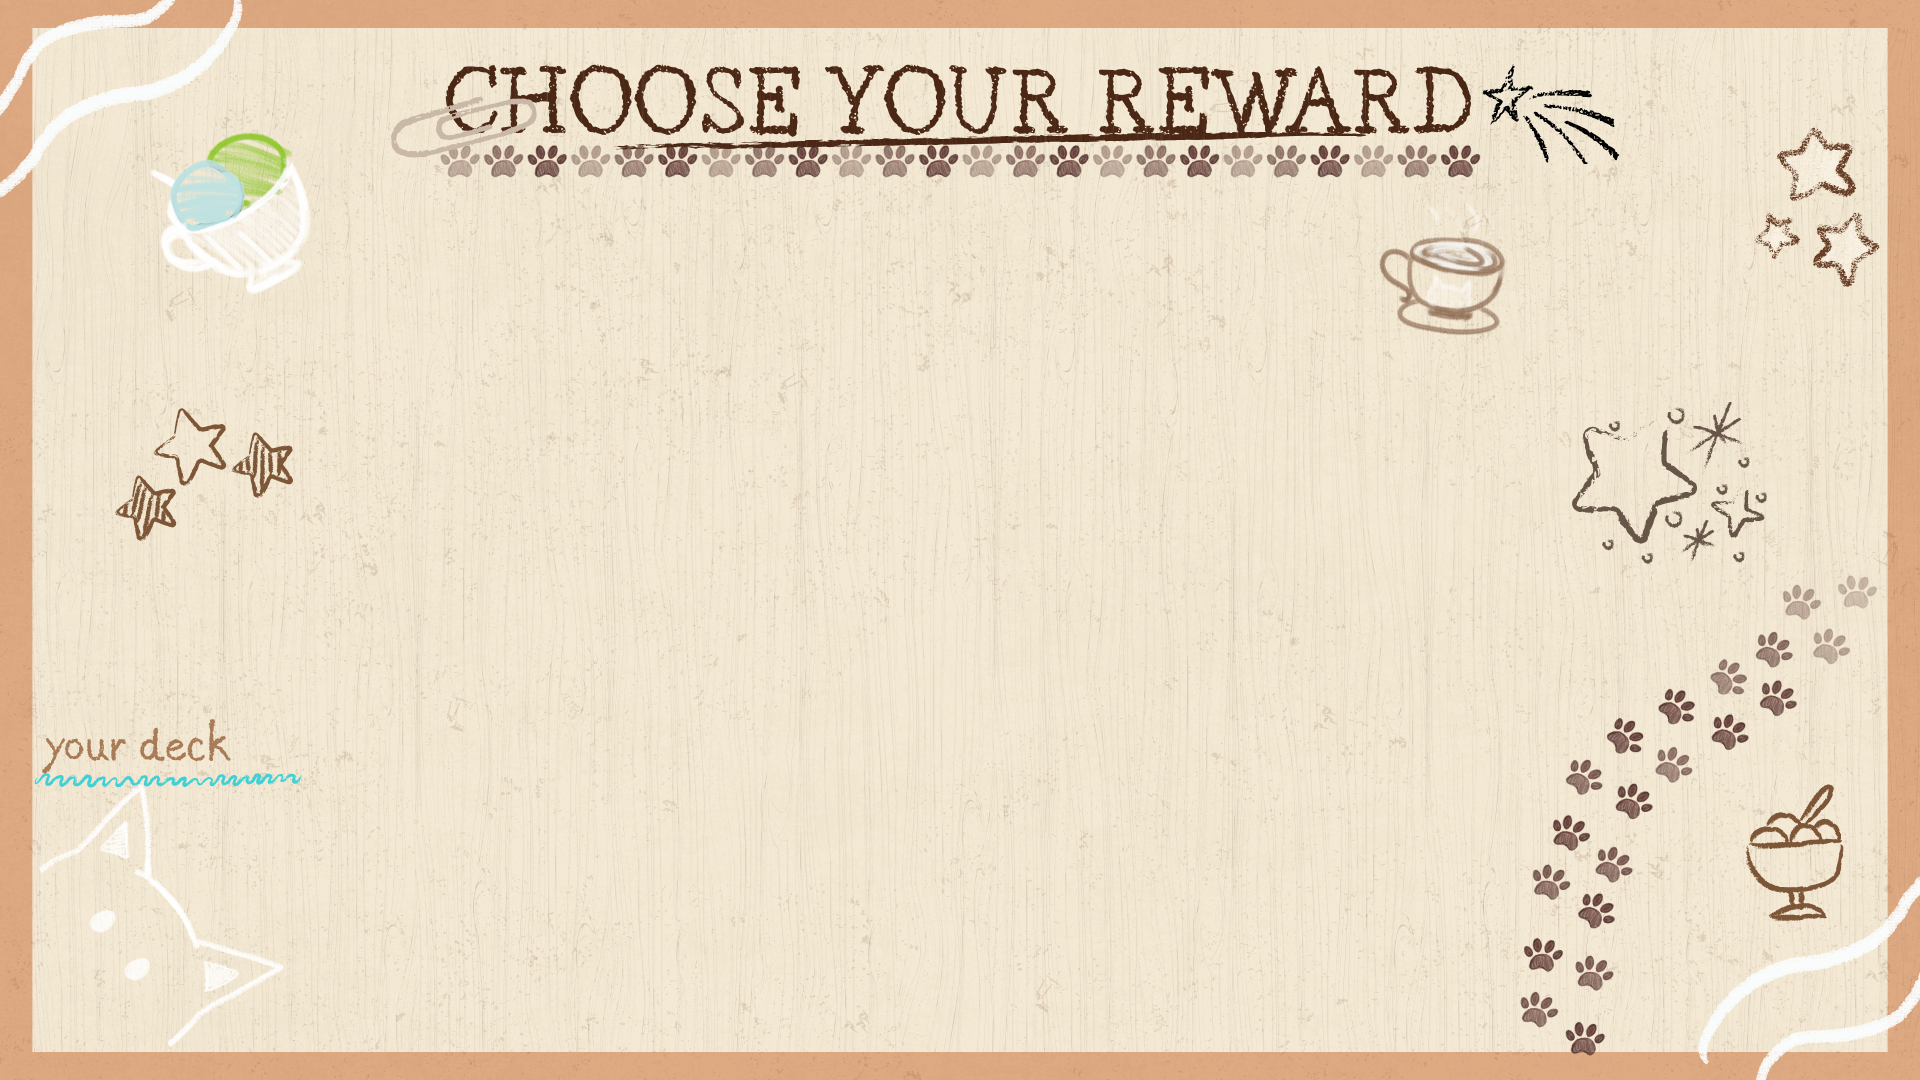
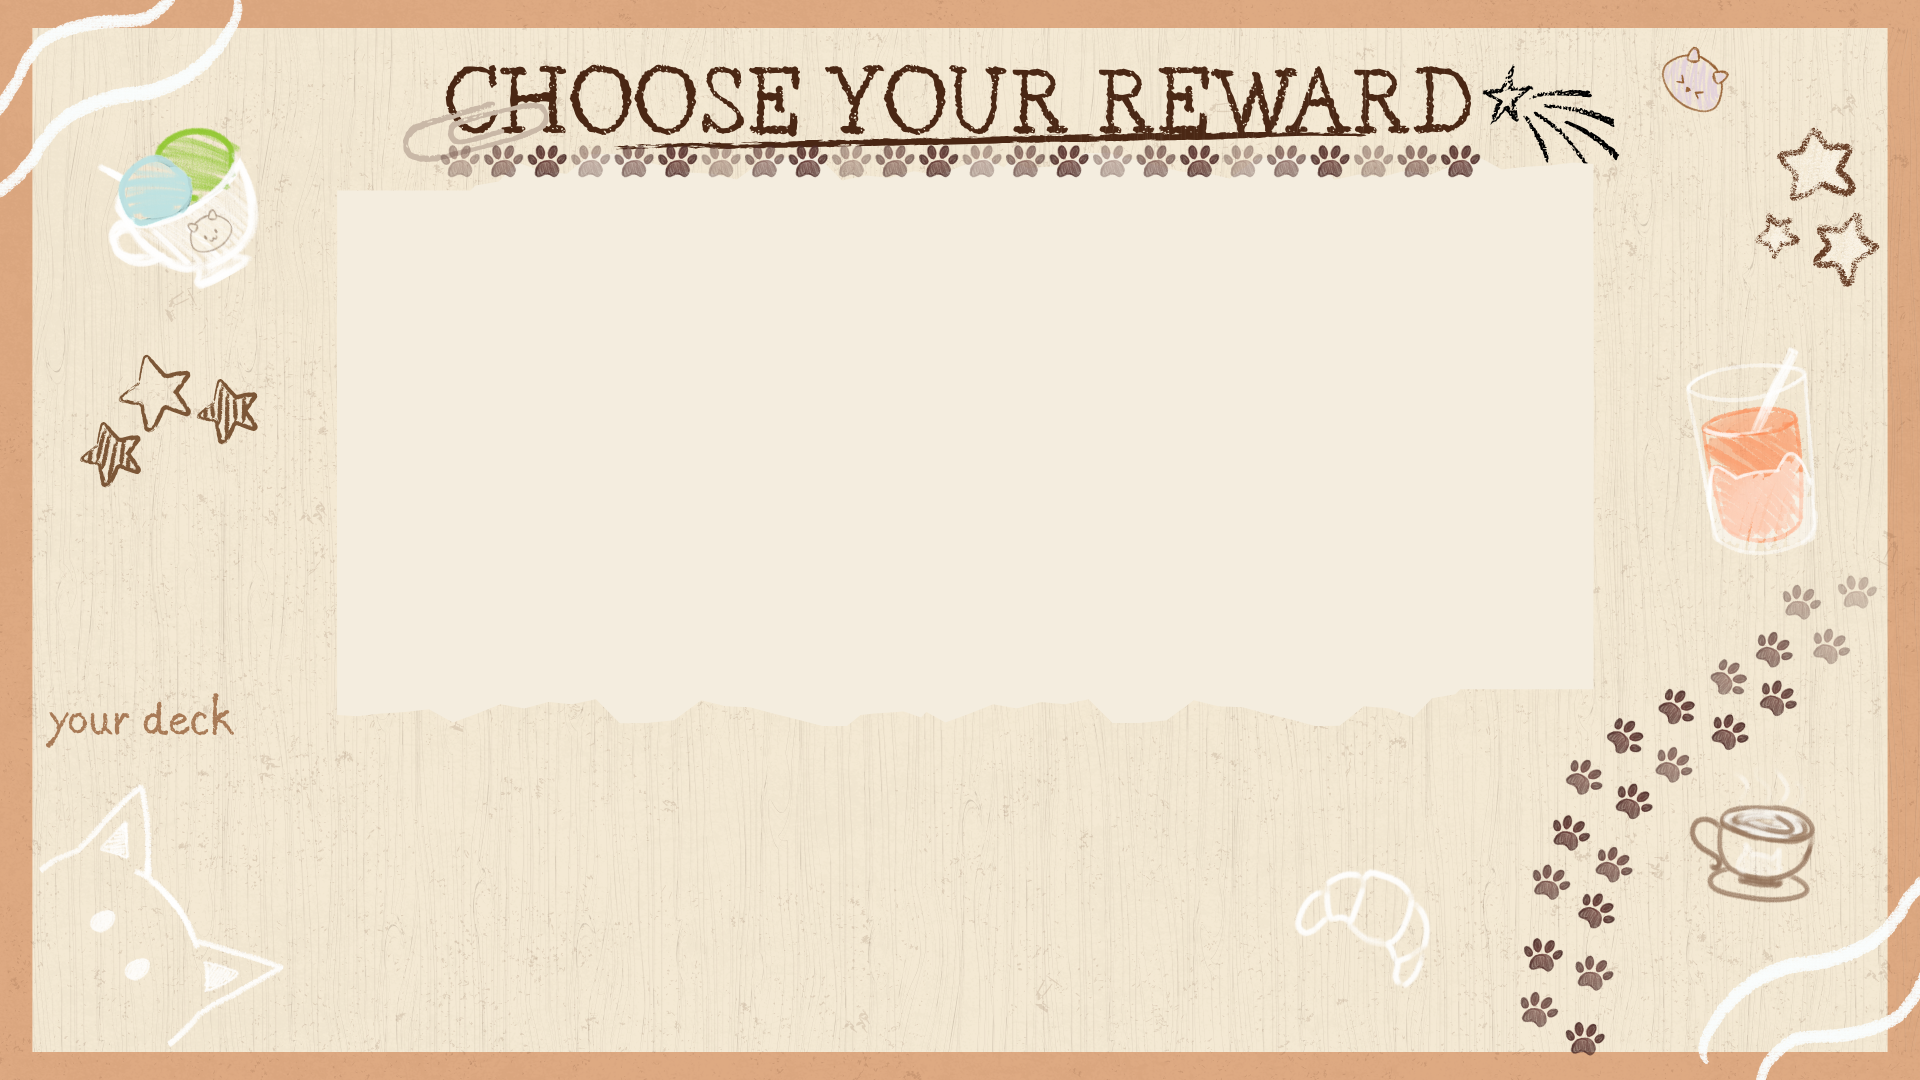
CAMBIOS MAS SPRITES

diff --git a/project/src/game/scenes/RewardScene.cpp b/project/src/game/scenes/RewardScene.cpp
@@ -76,7 +76,7 @@ void RewardScene::exitScene()
         eImg->swap_textures();
         eImg->_filter = false;
     }
-    else if (_exchange) {
+    else if (_exchange || (!_exchange && _heal)) {
         auto eImg = mngr->getComponent<ImageForButton>(eb);
         eImg->destination_rect.position.x = 1.1f;
         eImg->_filter = false;
@@ -213,7 +213,7 @@ void RewardScene::change_pos(bool enter) {
 void RewardScene::create_reward_buttons() {
     float umbral = 0.2f;
     GameStructs::ButtonProperties buttonPropTemplate = {
-        { {0.45f, 0.115f}, {0.125f, 0.2f} },
+        { {0.45f, 0.18f}, {0.125f, 0.2f} },
         0.0f, "", ecs::grp::REWARDCARDS
     };
 
@@ -241,7 +241,7 @@ void RewardScene::create_reward_buttons() {
     //selected button
     buttonPropTemplate.ID = ecs::grp::UI;
     buttonPropTemplate.sprite_key = "confirm_reward";
-    buttonPropTemplate.rect.position = { 0.438f, 0.55f };
+    buttonPropTemplate.rect.position = { 0.438f, 0.57f };
     buttonPropTemplate.rect.size = { 0.15f, 0.075f };
     create_reward_selected_button(buttonPropTemplate);
 
@@ -513,16 +513,14 @@ void RewardScene::create_reward_selected_button(const GameStructs::ButtonPropert
             //heal a 50%
             int hn = phealth->getMaxHealth() * 5 / 10;
             phealth->heal(hn);
-            _selected = true;
         }
         //we only select a reward if previously we have chosen something
         else if (_lr != nullptr && !_selected) {
             imgComp->_filter = false;
             _lr->swap_textures();
-            _selected = true;
             add_new_reward_card();
         }
-
+        _selected = true;
         imgComp->destination_rect.position.x += 100.0f;
         auto imgNext = mngr->getComponent<ImageForButton>(mngr->getHandler(ecs::hdlr::NEXTROUNDREWARD));
         imgNext->destination_rect.position = { 0.35f, 0.32f };
@@ -692,7 +690,7 @@ void RewardScene::update(uint32_t delta_time) {
        auto mngr = Game::Instance()->get_mngr();
        auto imgCompConfirm = mngr->getComponent<ImageForButton>(mngr->getHandler(ecs::hdlr::CONFIRMREWARD));
        auto imgCompExchange = mngr->getComponent<ImageForButton>(mngr->getHandler(ecs::hdlr::EXCHANGEBUTTON));
-       imgCompExchange->swap_textures();
+
        imgCompExchange->destination_rect.position = { imgCompConfirm->destination_rect.position.x - 0.185f, imgCompExchange->destination_rect.position.y};
 
        imgCompConfirm->destination_rect.position = { imgCompConfirm->destination_rect.position.x + 0.185f, imgCompConfirm->destination_rect.position.y };
@@ -720,7 +718,7 @@ void RewardScene::create_next_round_button(const GameStructs::ButtonProperties& 
 void RewardScene::create_reward_info() {
     auto e = create_entity(ecs::grp::UI,
         _scene_ID,
-        new transformless_dyn_image({ { 0.315f,0.335f }, {0.4f,0.2f} },
+        new transformless_dyn_image({ { 0.315f,0.375f }, {0.4f,0.2f} },
             0,
             Game::Instance()->get_mngr()->getComponent<camera_component>(Game::Instance()->get_mngr()->getHandler(ecs::hdlr::CAMERA))->cam,
             &sdlutils().images().at("initial_info")));

diff --git a/project/src/game/scenes/SelectionMenuScene.cpp b/project/src/game/scenes/SelectionMenuScene.cpp
@@ -391,7 +391,7 @@ void SelectionMenuScene::set_concrete_deck_info(const std::list<Card*>& cl) {
 void SelectionMenuScene::create_enter_button() {
     GameStructs::ButtonProperties bp = {
          { {0.4f, 0.4f},{0.2f, 0.15f} },
-         0.0f, "new_round", ecs::grp::UI
+         0.0f, "ready", ecs::grp::UI
     };
     auto* mngr = Game::Instance()->get_mngr();
     auto e = create_button(bp);
@@ -431,7 +431,7 @@ void SelectionMenuScene::update(uint32_t delta_time) {
     if (!_activate_play_button && _last_weapon_button != nullptr && _last_deck_button != nullptr) {
         auto* mngr = Game::Instance()->get_mngr();
         auto imgComp = mngr->getComponent<ImageForButton>(mngr->getHandler(ecs::hdlr::TOGAMEBUTTON));
-        imgComp->set_texture(&sdlutils().images().at("new_round"));
+        imgComp->set_texture(&sdlutils().images().at("ready"));
         _activate_play_button = true;
     }
 }

diff --git a/project/src/our_scripts/card_system/PlayableCards.cpp b/project/src/our_scripts/card_system/PlayableCards.cpp
@@ -385,9 +385,9 @@ CatKuzaCard::on_play(Deck& d, const Vector2D* player_position, const Vector2D* t
 	(void)d;
 	(void)player_position;
 	(void)target_position;
-	_times_since_played += 1;
+	_times_since_played++;
 	std::cout << "CatKuzaCard played " << _times_since_played << " times" << std::endl;
-	if(_times_since_played >= 3){
+	if(_times_since_played >= 2){
 		std::cout << "Eliminarse" << std::endl;
 
 		_play_destination = DESTROY;
@@ -405,7 +405,7 @@ SuperMichiCard::on_play(Deck& d, const Vector2D* player_position, const Vector2D
 	(void)d;
 	(void)player_position;
 	(void)target_position;
-	_times_since_played += 1;
+	_times_since_played++;
 	if (_times_since_played >= 10) {
 		_play_destination = DESTROY;
 	}
